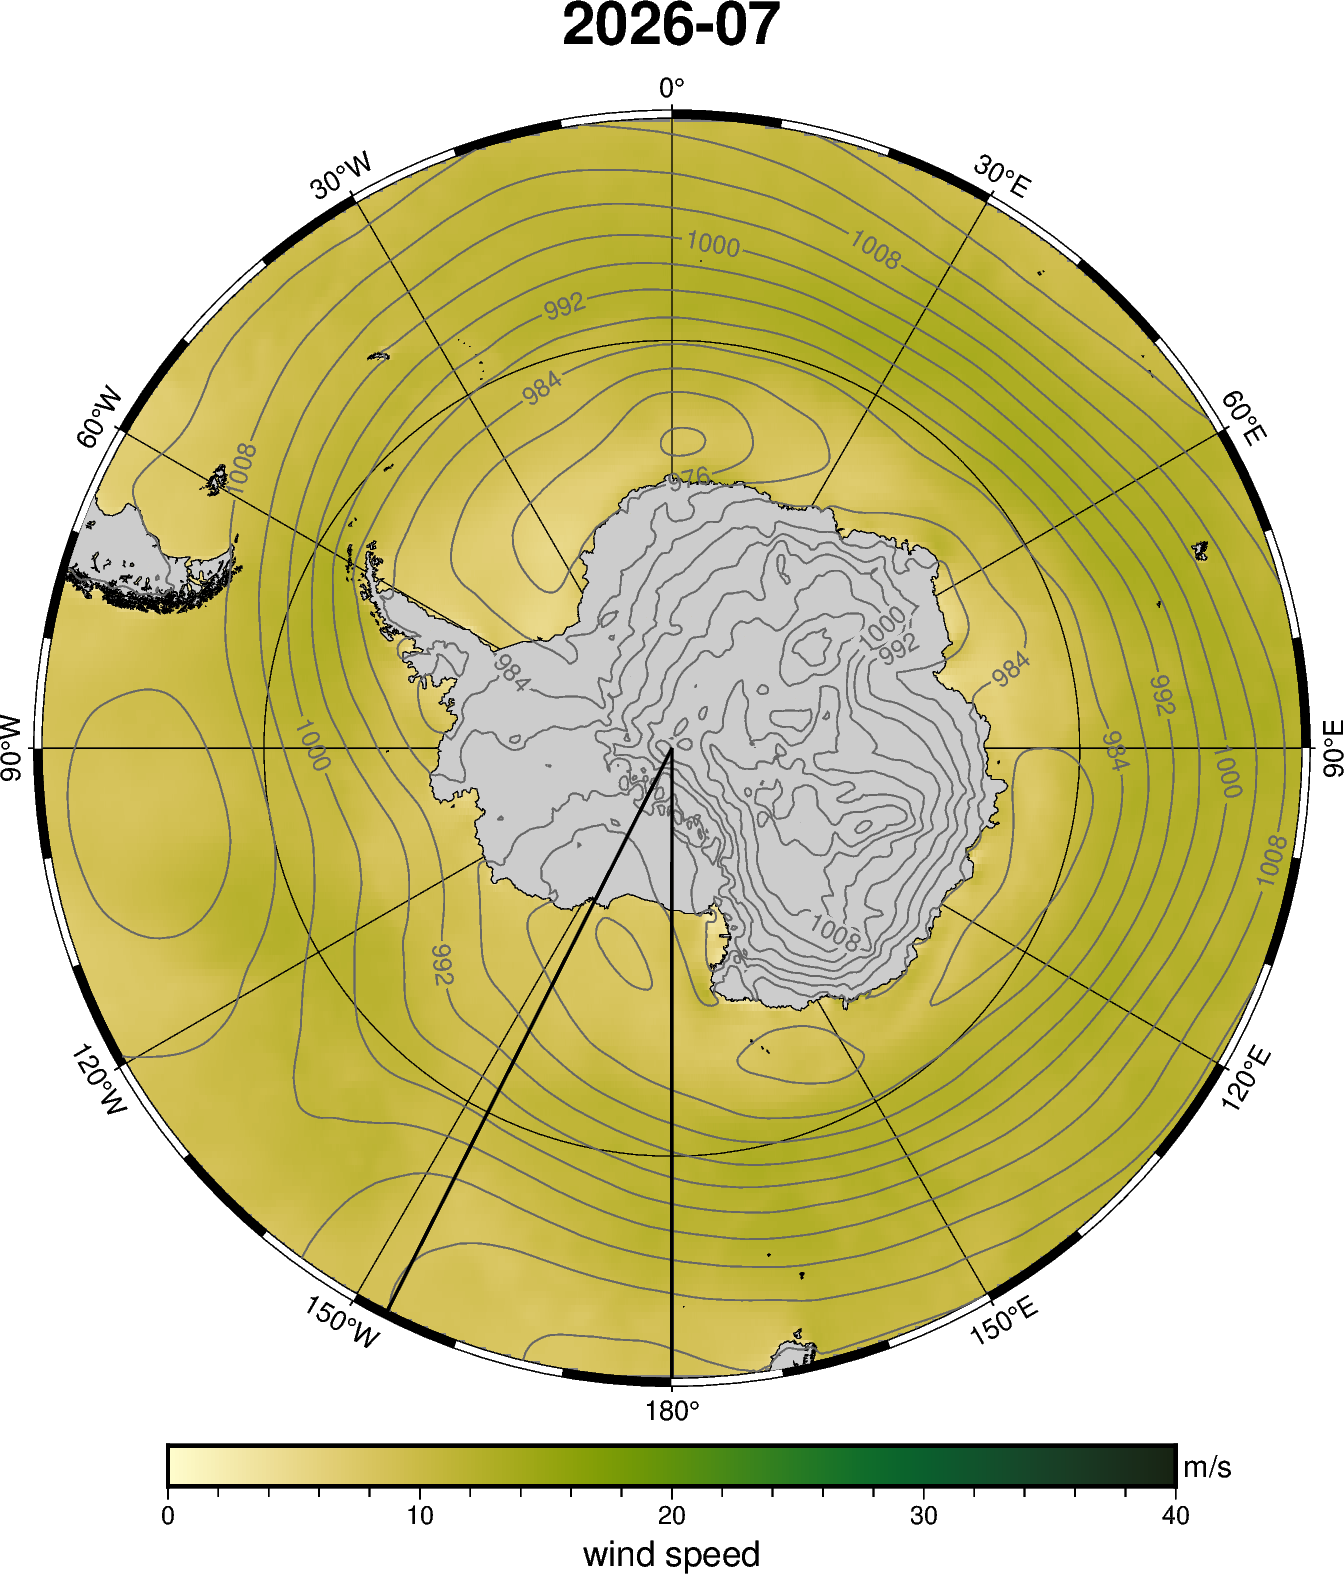
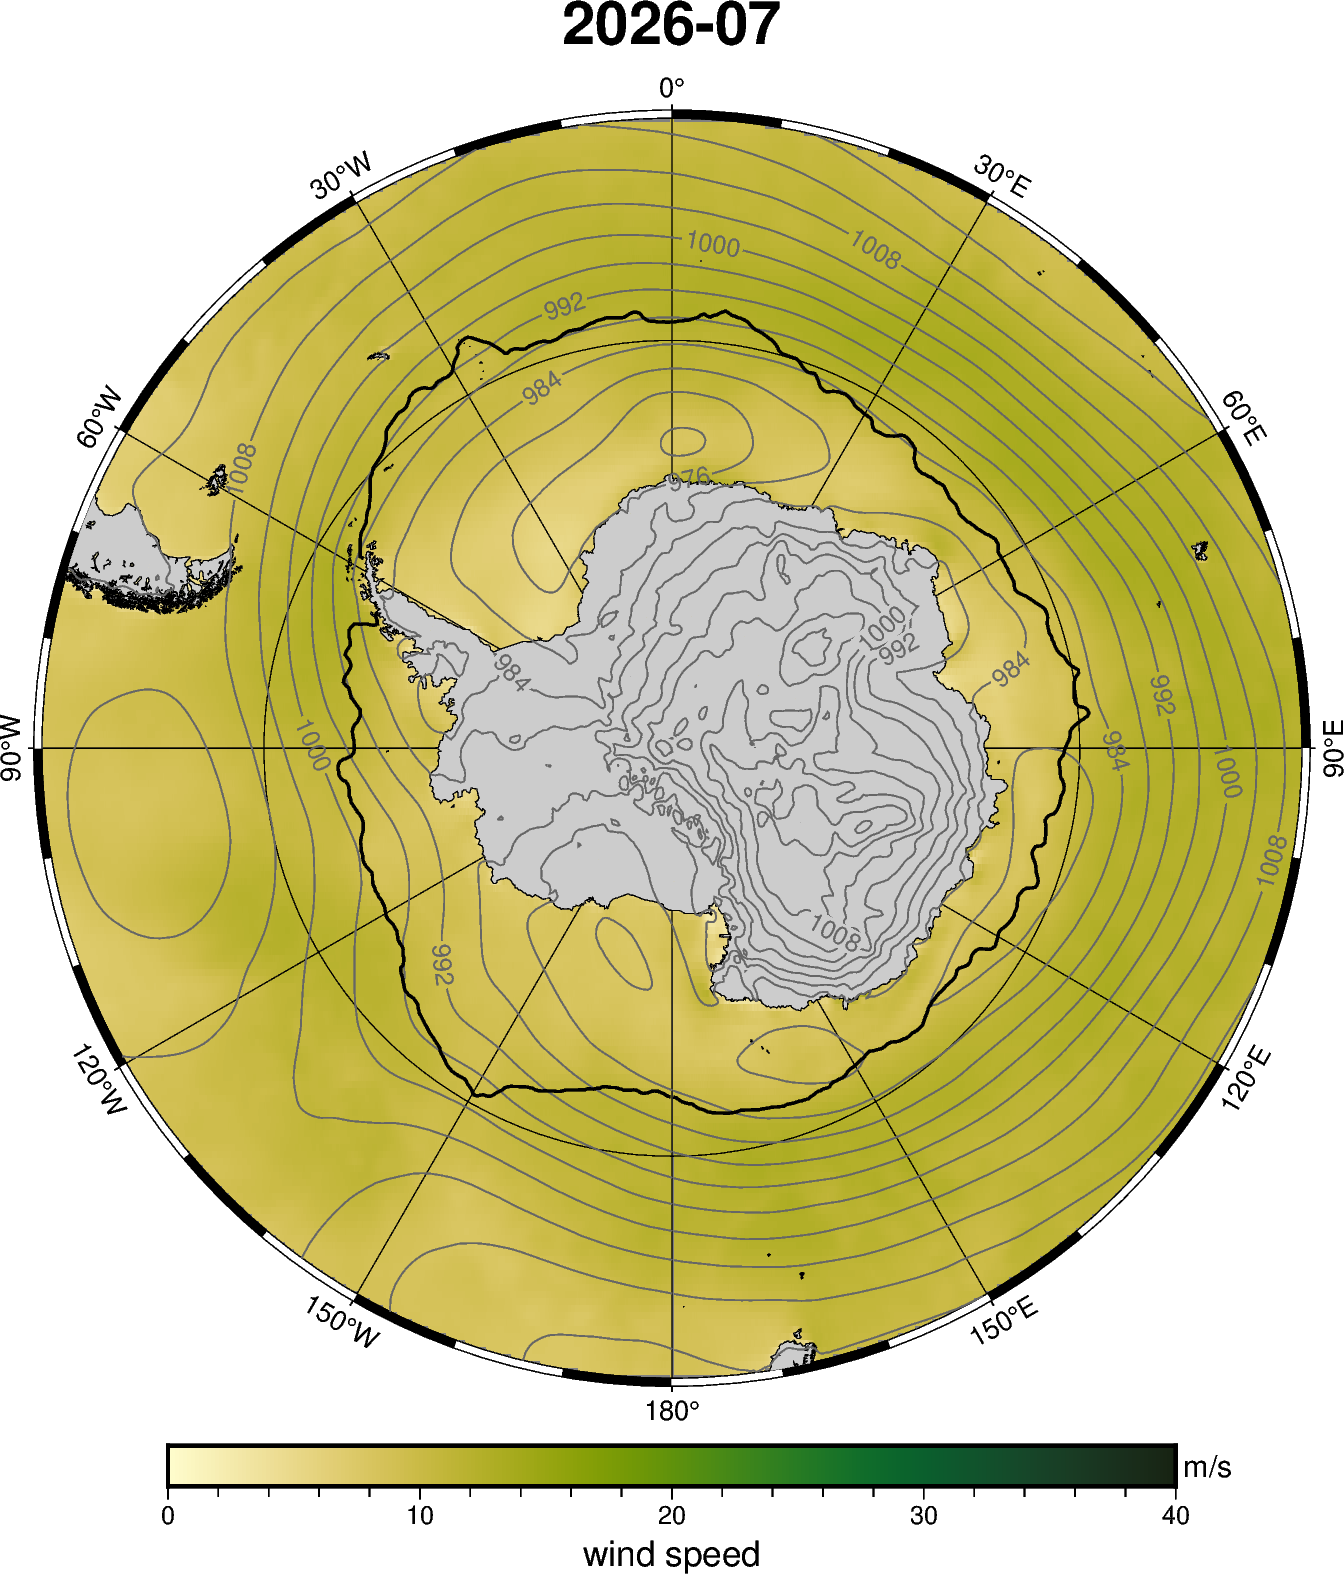
minor revisions to floes

diff --git a/docs/mthly_sea_ice_sci_chat_figs.md b/docs/mthly_sea_ice_sci_chat_figs.md
@@ -1,37 +1,27 @@
 # Monthly Sea Ice Science Chat Figures
 
-Last refreshed: 2026-09-16T14:33:15
+Last refreshed: 2026-09-19T06:06:42
 
 Figure directory: `/g/data/gv90/da1339/src/mawsons-chest/floes/figs/mthly_sea_ice_sci_chat`
-
-## NSIDC SIE cdr monthly anoms byyear
-
-![NSIDC SIE cdr monthly anoms byyear](../figs/mthly_sea_ice_sci_chat/NSIDC_SIE_cdr_monthly_anoms_byyear.png)
-
-## NSIDC SIA cdr monthly tplot absolute
-
-![NSIDC SIA cdr monthly tplot absolute](../figs/mthly_sea_ice_sci_chat/NSIDC_SIA_cdr_monthly_tplot_absolute.png)
 
 ## NSIDC SH sic anomaly — 2026-07
 
 ![NSIDC SH sic anomaly — 2026-07](../figs/mthly_sea_ice_sci_chat/NSIDC_SH_sic_anomaly_202607.png)
 
-## OISST global SST anomaly and NSIDC SIE — 2026-07
+## ESA CCI L3C SH monthly SIT — 2024-04
 
-![OISST global SST anomaly and NSIDC SIE — 2026-07](../figs/mthly_sea_ice_sci_chat/OISST_global_sst_anomaly_202607.png)
+![ESA CCI L3C SH monthly SIT — 2024-04](../figs/mthly_sea_ice_sci_chat/ESA_CCI_L3C_SH_sit_202404.png)
 
-## ERA5 wind speed, MSLP and NSIDC SIE — 2026-07
+*Monthly gridded L3C sea-ice thickness; black line is the matching-month NSIDC 15% SIC edge.*
 
-![ERA5 wind speed, MSLP and NSIDC SIE — 2026-07](../figs/mthly_sea_ice_sci_chat/ERA5_wind_SIE_SH_202607.png)
+## OISST global SST anomaly and observed SIE — 2026-07
 
-## NSIDC SIEmax vs day-of-max
+![OISST global SST anomaly and observed SIE — 2026-07](../figs/mthly_sea_ice_sci_chat/OISST_global_sst_anomaly_202607.png)
 
-![NSIDC SIEmax vs day-of-max](../figs/mthly_sea_ice_sci_chat/NSIDC_SIEmax_vs_day-of-max.png)
+*Black edge is NSIDC and dashed orange edge is University of Bremen AMSR2, both at 15% SIC.*
 
-## NSIDC Arctic vs Antarctic monthly anomalies
+## ERA5 wind speed, MSLP and observed SIE — 2026-07
 
-The left panel shows the combined Arctic and Antarctic monthly SIE anomaly: values below zero mean global sea-ice extent was below its calendar-month climatology. In the right panel, each point is one month; the lower-left quadrant means both hemispheres were below average, while the opposite-sign quadrants show compensation between hemispheres. Black denotes months before 2005; red denotes 2005 onward.
+![ERA5 wind speed, MSLP and observed SIE — 2026-07](../figs/mthly_sea_ice_sci_chat/ERA5_wind_SIE_SH_202607.png)
 
-![NSIDC Arctic vs Antarctic monthly anomalies](../figs/mthly_sea_ice_sci_chat/NSIDC_Arctic_vs_Antarctic_monthly_anomalies.png)
-
-*Constructed from separate Arctic and Antarctic calendar-month anomalies relative to the 1979–2018 NSIDC climatology; the hemispheric anomalies are summed for the global series.*
+*Black edge is NSIDC and dashed orange edge is University of Bremen AMSR2, both at 15% SIC.*
